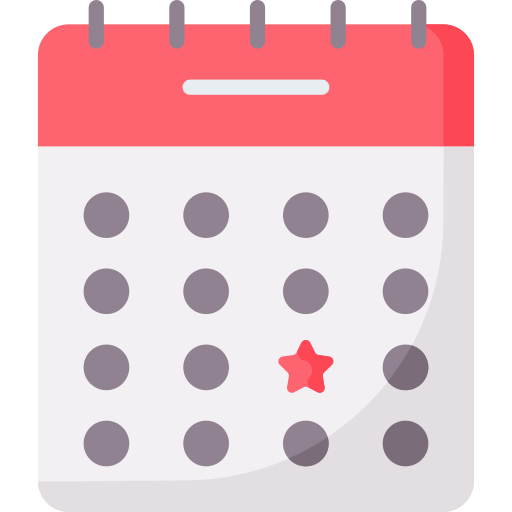
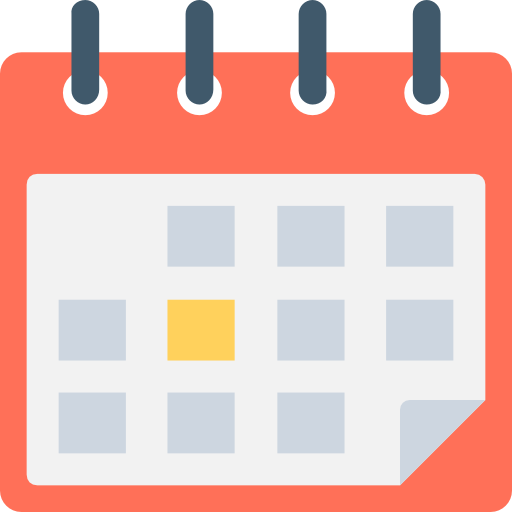
table created

diff --git a/src/views/HeadachesList.vue b/src/views/HeadachesList.vue
@@ -1,15 +1,78 @@
 <template>
   <v-content>
-    HeadachesList
+    <div class="headache-list-container">
+      <table class="table">
+        <tr class="table-header">
+          <th>Start Date</th>
+          <th>End Date</th>
+          <th>Medicines</th>
+        </tr>
+        <tr v-bind:key="headache.startDate" v-for="headache in headaches">
+          <td>{{headache.startDate}}</td>
+          <td>{{headache.endDate}}</td>
+          <td class="d-flex flex-column">
+            <div class="d-flex medicine-row" v-bind:key="medicine.name" v-for="medicine in headache.medicines">
+              <div>{{medicine.name}}</div>
+              <div>{{medicine.effective ? 'Effective' : 'Not Effective'}}</div>
+            </div>
+          </td>
+        </tr>
+      </table>
+      <div class="d-flex align-center justify-center button-container">
+        <v-btn color="primary">Download Data</v-btn>
+      </div>
+    </div>
   </v-content>
 </template>
 
 <script>
-export default {
+import { mapState } from 'vuex';
 
+export default {
+  name: 'headache-list',
+  computed: {
+    ...mapState({
+      headaches: state => state.headaches.headaches
+    })
+  }
 }
 </script>
 
-<style>
+<style scoped>
 
+.table{
+  width: 100%;
+}
+
+.medicine-row div{
+  padding: 5px 20px;
+  width: 100%;
+  border-bottom: 1px solid rgba(128, 128, 128, 0.199);
+  text-align: center;
+}
+
+
+tr, td{
+  text-align: center;
+  border: 1px solid rgba(128, 128, 128, 0.199);
+}
+
+.table-header{
+  background-color: #5c6bc0;
+  color: white;
+}
+
+th{
+  padding: 20px 0;
+  width: 33%;
+}
+
+.headache-list-container{
+  padding: 20px;
+}
+
+.button-container{
+  width: 100%;
+  padding: 20px;
+}
 </style>

diff --git a/src/components/CustomFooter.vue b/src/components/CustomFooter.vue
@@ -1,7 +1,7 @@
 <template>
   <v-footer class="d-flex flex-column justify-center">
     <small class="primary--text font-weight-black">Created By Alessia Miccoli</small>
-    <small>Icons made by <a href="https://www.flaticon.com/authors/freepik" title="Freepik">Freepik</a> from <a href="https://www.flaticon.com/" title="Flaticon"> www.flaticon.com</a></small>
+    <small>Icons made by <a href="https://www.flaticon.com/authors/vectors-market" title="Vectors Market">Vectors Market</a> from <a href="https://www.flaticon.com/" title="Flaticon"> www.flaticon.com</a></small>
   </v-footer>
 </template>
 

diff --git a/src/store/headaches.js b/src/store/headaches.js
@@ -1,5 +1,17 @@
 const state = {
-    
+  headaches: [{
+    startDate: '20/02/2019',
+    endDate: '21/02/2019',
+    medicines: [{
+      name: 'oki',
+      effective: true
+    },
+    {
+      name: 'tachipirina',
+      effective: false
+    }
+    ]
+  }]
 };
   
 const getters = {
